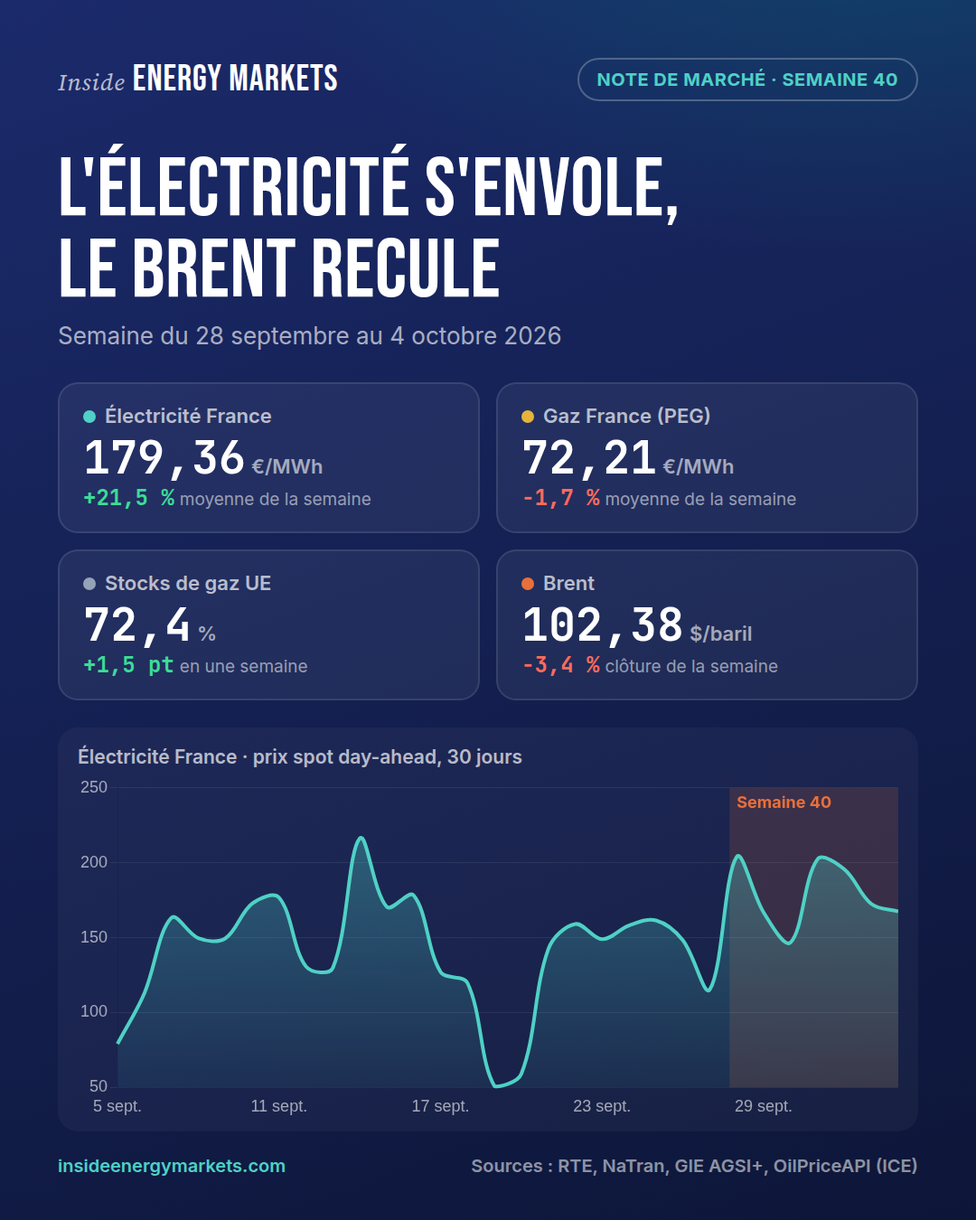
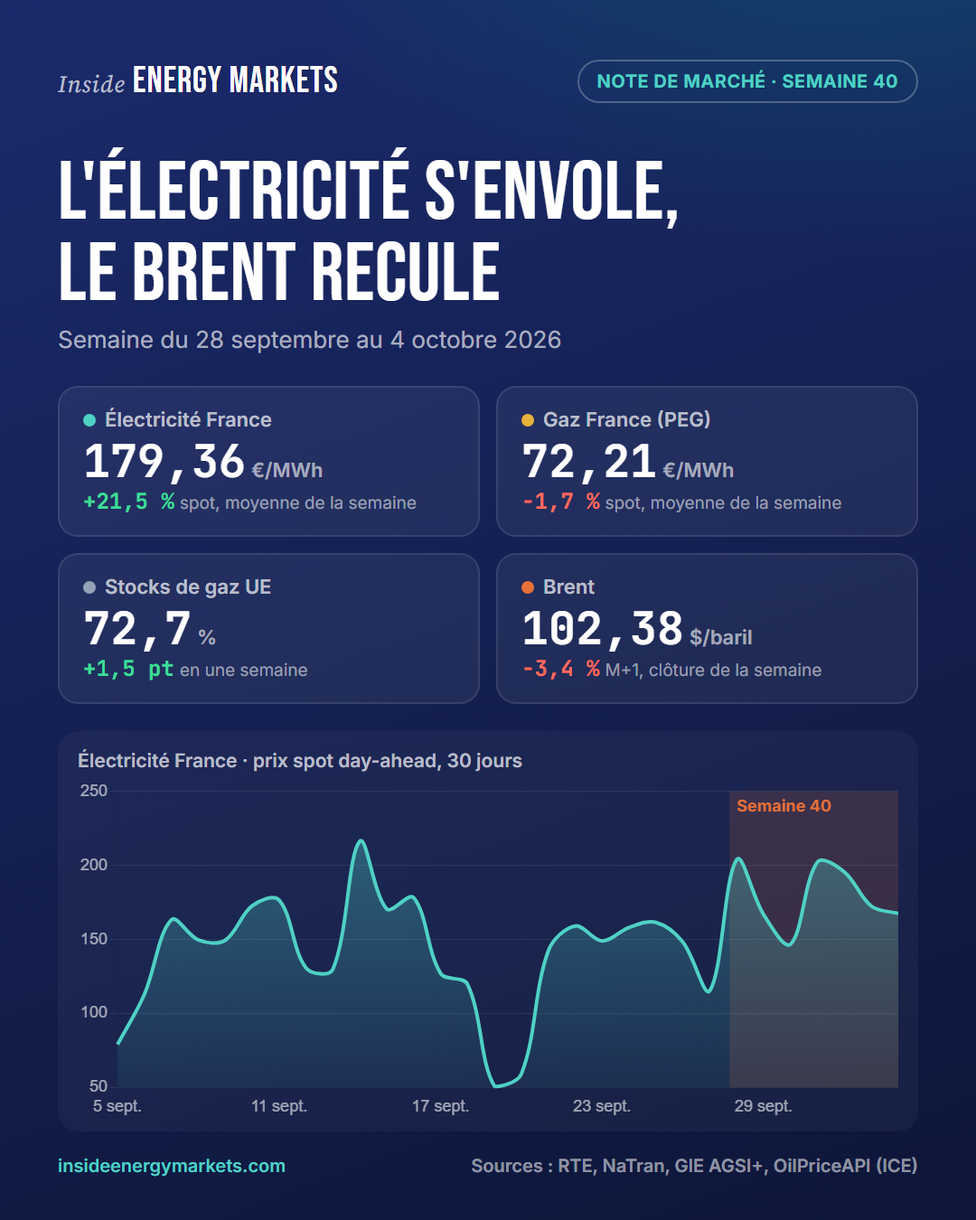
Note de marché : type de prix précisé (spot pour l'électricité et le PEG, M+1 pour le Brent), note S40 régénérée

diff --git a/scripts/generate_note.py b/scripts/generate_note.py
@@ -236,8 +236,8 @@ def make_chart(kind, c, s, lang, week):
         "power": ("Électricité FR" if fr else "French power",
                   "Spot day-ahead, moyenne de chaque jour" if fr else "Day-ahead spot, daily average"),
         "gas": ("Gaz France (PEG)" if fr else "French gas (PEG)",
-                "Prix moyen de chaque journée gazière" if fr else "Average price of each gas day"),
-        "oil": ("Brent", "Contrat à terme ICE, premier mois" if fr else "ICE futures, front month")}[kind]
+                "Spot, prix moyen de chaque journée gazière" if fr else "Spot, average price of each gas day"),
+        "oil": ("Brent", "Contrat à terme ICE M+1 (premier mois)" if fr else "ICE futures M+1 (front month)")}[kind]
     labels, series_out = [d for d, _ in pts], [{"name": title, "color": COLORS[kind], "data": [round(v, 2) for _, v in pts]}]
     if kind == "oil":
         # Spot EIA du Brent (autre produit) : tracé à part, en pointillés, pour le contexte
@@ -246,7 +246,7 @@ def make_chart(kind, c, s, lang, week):
         if spot:
             fut = dict(pts)
             labels = sorted(set(fut) | set(spot))
-            series_out = [{"name": "Brent, contrat à terme ICE" if fr else "Brent, ICE futures", "color": COLORS[kind],
+            series_out = [{"name": "Brent, contrat à terme ICE M+1" if fr else "Brent, ICE futures M+1", "color": COLORS[kind],
                            "data": [round(fut[d], 2) if d in fut else None for d in labels]},
                           {"name": "Brent spot (EIA), pour contexte" if fr else "Brent spot (EIA), for context", "color": COLORS[kind],
                            "dashed": True, "data": [spot.get(d) for d in labels]}]
@@ -264,20 +264,20 @@ def build(s, c, lang, week):
     sp = s.get("spot")
     if sp:
         chg = (sp["avg"] - sp["prev_avg"]) / sp["prev_avg"] * 100 if sp["prev_avg"] else None
-        tiles.append({"key": "power", "label": "Électricité France" if fr else "French power", "sub": "moyenne de la semaine" if fr else "weekly average", "value": num(sp["avg"], lang),
+        tiles.append({"key": "power", "label": "Électricité France" if fr else "French power", "sub": "spot, moyenne de la semaine" if fr else "spot, weekly average", "value": num(sp["avg"], lang),
                       "unit": " €/MWh", "change": pct(chg, lang) if chg is not None else None,
                       "dir": direction(chg) if chg is not None else "flat"})
         if chg is not None:
             movers.append(("l'électricité", "power prices", "Électricité" if fr else "Power", chg))
         b = []
         if fr:
-            b.append(f"Spot France : entre {num(sp['low'][1], lang)} et {num(sp['high'][1], lang)} €/MWh selon les jours, "
+            b.append(f"Électricité France (spot day-ahead) : entre {num(sp['low'][1], lang)} et {num(sp['high'][1], lang)} €/MWh selon les jours, "
                      f"{num(sp['avg'], lang)} €/MWh en moyenne" + (f" ({pct(chg, lang)} sur une semaine)." if chg is not None else "."))
             b.append(f"Journée la plus chère : {day_label(sp['high'][0], lang)} ; la moins chère : {day_label(sp['low'][0], lang)}.")
             if sp["negative_days"]:
                 b.append(f"Prix moyen négatif {sp['negative_days']} jour(s) dans la semaine.")
         else:
-            b.append(f"French spot: between €{num(sp['low'][1], lang)} and €{num(sp['high'][1], lang)}/MWh depending on the day, "
+            b.append(f"French power (day-ahead spot): between €{num(sp['low'][1], lang)} and €{num(sp['high'][1], lang)}/MWh depending on the day, "
                      f"€{num(sp['avg'], lang)}/MWh on average" + (f" ({pct(chg, lang)} week on week)." if chg is not None else "."))
             b.append(f"Most expensive day: {day_label(sp['high'][0], lang)}; cheapest: {day_label(sp['low'][0], lang)}.")
             if sp["negative_days"]:
@@ -293,15 +293,15 @@ def build(s, c, lang, week):
     pg = s.get("peg")
     if pg:
         chg = (pg["avg"] - pg["prev_avg"]) / pg["prev_avg"] * 100 if pg["prev_avg"] else None
-        tiles.append({"key": "gas", "label": "Gaz France (PEG)" if fr else "French gas (PEG)", "sub": "moyenne de la semaine" if fr else "weekly average", "value": num(pg["avg"], lang),
+        tiles.append({"key": "gas", "label": "Gaz France (PEG)" if fr else "French gas (PEG)", "sub": "spot, moyenne de la semaine" if fr else "spot, weekly average", "value": num(pg["avg"], lang),
                       "unit": " €/MWh", "change": pct(chg, lang) if chg is not None else None,
                       "dir": direction(chg) if chg is not None else "flat"})
         if chg is not None:
             movers.append(("le gaz français", "French gas", "PEG", chg))
-        b.append(f"Gaz France (PEG) : {num(pg['avg'], lang)} €/MWh en moyenne"
+        b.append(f"Gaz France (PEG, spot) : {num(pg['avg'], lang)} €/MWh en moyenne"
                  + (f", contre {num(pg['prev_avg'], lang)} la semaine précédente ({pct(chg, lang)})" if chg is not None else "")
                  + f", entre {num(pg['low'][1], lang)} et {num(pg['high'][1], lang)} €/MWh selon les jours." if fr else
-                 f"French gas (PEG): €{num(pg['avg'], lang)}/MWh on average"
+                 f"French gas (PEG, spot): €{num(pg['avg'], lang)}/MWh on average"
                  + (f", against {num(pg['prev_avg'], lang)} the previous week ({pct(chg, lang)})" if chg is not None else "")
                  + f", between €{num(pg['low'][1], lang)} and €{num(pg['high'][1], lang)}/MWh depending on the day.")
     eu, frs = s.get("storage_eu"), s.get("storage_fr")
@@ -325,12 +325,12 @@ def build(s, c, lang, week):
     b = []
     br = s.get("brent")
     if br:
-        tiles.append({"key": "oil", "label": "Brent", "sub": "clôture de la semaine" if fr else "weekly close", "value": num(br["last"], lang), "unit": " $/baril" if fr else " $/bbl",
+        tiles.append({"key": "oil", "label": "Brent", "sub": "M+1, clôture de la semaine" if fr else "M+1, weekly close", "value": num(br["last"], lang), "unit": " $/baril" if fr else " $/bbl",
                       "change": pct(br["change"], lang), "dir": direction(br["change"])})
         movers.append(("le Brent", "Brent", "Brent", br["change"]))
-        b.append(f"Brent (contrat à terme ICE, premier mois) : {num(br['last'], lang)} $ le baril à la clôture de la semaine "
+        b.append(f"Brent (contrat à terme ICE M+1) : {num(br['last'], lang)} $ le baril à la clôture de la semaine "
                  f"({pct(br['change'], lang)} sur une semaine), entre {num(br['low'][1], lang)} et {num(br['high'][1], lang)} $." if fr else
-                 f"Brent (ICE futures, front month): ${num(br['last'], lang)} a barrel at the weekly close "
+                 f"Brent (ICE futures M+1): ${num(br['last'], lang)} a barrel at the weekly close "
                  f"({pct(br['change'], lang)} on the week), between ${num(br['low'][1], lang)} and ${num(br['high'][1], lang)}.")
     extra = []
     if "spread" in s:
@@ -463,10 +463,10 @@ def write_linkedin(front, week, s):
     if front["reading"]:
         lines += [f"👉 {front['reading']}", ""]
     tiles = {t.get("key"): t for t in front["tiles"]}
-    for emoji, label, what in (("⚡", "power", "électricité France, moyenne de la semaine"),
-                               ("🔥", "gas", "gaz France (PEG), moyenne de la semaine"),
+    for emoji, label, what in (("⚡", "power", "électricité France (spot), moyenne de la semaine"),
+                               ("🔥", "gas", "gaz France (PEG spot), moyenne de la semaine"),
                                ("🔥", "storage", "stocks de gaz européens"),
-                               ("🛢", "oil", "Brent, clôture de la semaine")):
+                               ("🛢", "oil", "Brent (M+1), clôture de la semaine")):
         t = tiles.get(label)
         if t:
             chg = f" ({t['change']})" if t.get("change") else ""

diff --git a/_notes/2026-40-fr.md b/_notes/2026-40-fr.md
@@ -12,9 +12,9 @@ period_start: "2026-09-28"
 period_end: "2026-10-04"
 headline: "L'électricité s'envole, le Brent recule"
 intro: "Semaine du 28 septembre au 4 octobre 2026 : ce qu'il faut retenir sur l'électricité, le gaz et le pétrole."
-context: [{"title": "« Le budget 2027 porte déjà la marque des six réacteurs nucléaires EPR2 »", "url": "https://www.lemonde.fr/idees/article/2026/10/04/le-budget-2027-porte-deja-la-marque-des-six-reacteurs-nucleaires-epr2_6788313_3232.html", "source": "Le Monde"}, {"title": "« Une politique juste de réduction des émissions ne consiste pas à demander le même effort à tous, mais à cibler en priorité les mobilités les plus carbonées »", "url": "https://www.lemonde.fr/idees/article/2026/10/04/une-politique-juste-de-reduction-des-emissions-ne-consiste-pas-a-demander-le-meme-effort-a-tous-mais-a-cibler-en-priorite-les-mobilites-les-plus-carbonees_6788111_3232.html", "source": "Le Monde"}, {"title": "Réserves stratégiques de pétrole : 325 millions de barils « libérés » depuis mars, selon l’Agence internationale de l’énergie", "url": "https://www.lemonde.fr/planete/article/2026/10/03/reserves-strategiques-de-petrole-325-millions-de-barils-liberes-depuis-mars_6787795_3244.html", "source": "Le Monde"}, {"title": "Leasing social de pompes à chaleur : « un changement de paradigme »", "url": "https://www.connaissancedesenergies.org/leasing-social-de-pompes-a-chaleur-un-changement-de-paradigme", "source": "Connaissance des Énergies"}]
-tiles: [{"key": "power", "label": "Électricité France", "sub": "moyenne de la semaine", "value": "179,36", "unit": " €/MWh", "change": "+21,5 %", "dir": "up", "color": "#4fd1c5", "spark": [79.08, 113.02, 163.24, 149.69, 149.47, 172.76, 176.71, 130.85, 129.94, 216.33, 170.63, 178.28, 127.12, 119.74, 50.96, 59.17, 142.3, 159.12, 148.95, 158.11, 161.52, 148.2, 115.41, 203.94, 166.81, 146.81, 202.33, 195.57, 172.52, 167.52]}, {"key": "gas", "label": "Gaz France (PEG)", "sub": "moyenne de la semaine", "value": "72,21", "unit": " €/MWh", "change": "−1,7 %", "dir": "down", "color": "#e8b33a", "spark": [77.3, 74.95, 73.75, 75.41, 78.6, 80.18, 80.29, 82.01, 82.13, 84.47, 84.43, 80.21, 78.44, 78.47, 79.21, 80.95, 75.69, 72.86, 73.55, 74.67, 71.99, 72.95, 72.35, 72.92, 69.42, 70.07, 72.26, 72.71, 74.18, 73.92]}, {"key": "storage", "label": "Stocks de gaz UE", "sub": "en une semaine", "value": "72,4", "unit": " %", "change": "+1,5 pt", "dir": "up", "color": "#94a3b8", "spark": [58.07, 58.3, 58.53, 58.82, 59.1, 59.37, 59.63, 59.9, 60.16, 60.44, 60.79, 61.13, 61.37, 61.6, 61.81, 62.04, 62.32, 62.64, 62.99, 63.28, 63.55, 63.81, 64.09, 64.38, 64.74, 65.1, 65.4, 65.62, 65.83, 66.07, 66.35, 66.59, 66.91, 67.14, 67.35, 67.52, 67.66, 67.78, 68.04, 68.3, 68.49, 68.66, 68.84, 69.06, 69.31, 69.62, 69.94, 70.14, 70.25, 70.35, 70.45, 70.62, 70.88, 71.17, 71.33, 71.55, 71.64, 71.98, 72.15, 72.4]}, {"key": "oil", "label": "Brent", "sub": "clôture de la semaine", "value": "102,38", "unit": " $/baril", "change": "−3,4 %", "dir": "down", "color": "#e8703a", "spark": [105.99, 105.92, 102.94, 97.57, 102.44, 102.38]}]
-sections: [{"key": "power", "title": "Électricité", "icon": "fa-bolt", "emoji": "⚡", "bullets": ["Spot France : entre 146,81 et 203,94 €/MWh selon les jours, 179,36 €/MWh en moyenne (+21,5 % sur une semaine).", "Journée la plus chère : lundi 28 ; la moins chère : mercredi 30.", "Production : nucléaire 68 %, renouvelables 24 %, gaz 8 %."], "chart": {"type": "detail", "title": "Électricité FR", "sub": "Spot day-ahead, moyenne de chaque jour", "unit": "€/MWh", "labels": ["2026-08-06", "2026-08-07", "2026-08-08", "2026-08-09", "2026-08-10", "2026-08-11", "2026-08-12", "2026-08-13", "2026-08-14", "2026-08-15", "2026-08-16", "2026-08-17", "2026-08-18", "2026-08-19", "2026-08-20", "2026-08-21", "2026-08-22", "2026-08-23", "2026-08-24", "2026-08-25", "2026-08-26", "2026-08-27", "2026-08-28", "2026-08-29", "2026-08-30", "2026-08-31", "2026-09-01", "2026-09-02", "2026-09-03", "2026-09-04", "2026-09-05", "2026-09-06", "2026-09-07", "2026-09-08", "2026-09-09", "2026-09-10", "2026-09-11", "2026-09-12", "2026-09-13", "2026-09-14", "2026-09-15", "2026-09-16", "2026-09-17", "2026-09-18", "2026-09-19", "2026-09-20", "2026-09-21", "2026-09-22", "2026-09-23", "2026-09-24", "2026-09-25", "2026-09-26", "2026-09-27", "2026-09-28", "2026-09-29", "2026-09-30", "2026-10-01", "2026-10-02", "2026-10-03", "2026-10-04"], "series": [{"name": "Électricité FR", "color": "#00817d", "data": [97.28, 106.26, 93.84, 90.93, 125.99, 115.13, 141.2, 154.68, 145.74, 122.27, 138.15, 177.35, 162.21, 165.78, 143.12, 152.8, 100.62, 76.47, 105.45, 153.92, 159.84, 156.6, 134.28, 65.33, 72.61, 81.84, 148.72, 163.6, 138.34, 110.12, 79.08, 113.02, 163.24, 149.69, 149.47, 172.76, 176.71, 130.85, 129.94, 216.33, 170.63, 178.28, 127.12, 119.74, 50.96, 59.17, 142.3, 159.12, 148.95, 158.11, 161.52, 148.2, 115.41, 203.94, 166.81, 146.81, 202.33, 195.57, 172.52, 167.52]}], "band": ["2026-09-28", "2026-10-04"], "band_label": "Semaine 40", "stats": [{"label": "Dernier", "value": "167,52", "unit": "€/MWh", "sub": "dimanche 4"}, {"label": "Moyenne vs sem. préc.", "value": "+21,5 %", "unit": "", "sub": "179,36 contre 147,66 €/MWh", "dir": "up"}, {"label": "Plus bas", "value": "146,81", "unit": "€/MWh", "sub": "mercredi 30"}, {"label": "Plus haut", "value": "203,94", "unit": "€/MWh", "sub": "lundi 28"}, {"label": "Moyenne", "value": "179,36", "unit": "€/MWh", "sub": "semaine 40"}]}, "source": "RTE, Energy-Charts / SMARD"}, {"key": "gas", "title": "Gaz", "icon": "fa-fire-flame-simple", "emoji": "🔥", "bullets": ["Gaz France (PEG) : 72,21 €/MWh en moyenne, contre 73,44 la semaine précédente (−1,7 %), entre 69,42 et 74,18 €/MWh selon les jours.", "Stocks européens : 72,4 % de remplissage (+1,5 point en une semaine), 10,2 points en dessous de l'an dernier.", "France : 84,7 % de remplissage."], "chart": {"type": "detail", "title": "Gaz France (PEG)", "sub": "Prix moyen de chaque journée gazière", "unit": "€/MWh", "labels": ["2026-08-06", "2026-08-07", "2026-08-08", "2026-08-09", "2026-08-10", "2026-08-11", "2026-08-12", "2026-08-13", "2026-08-14", "2026-08-15", "2026-08-16", "2026-08-17", "2026-08-18", "2026-08-19", "2026-08-20", "2026-08-21", "2026-08-22", "2026-08-23", "2026-08-24", "2026-08-25", "2026-08-26", "2026-08-27", "2026-08-28", "2026-08-29", "2026-08-30", "2026-08-31", "2026-09-01", "2026-09-02", "2026-09-03", "2026-09-04", "2026-09-05", "2026-09-06", "2026-09-07", "2026-09-08", "2026-09-09", "2026-09-10", "2026-09-11", "2026-09-12", "2026-09-13", "2026-09-14", "2026-09-15", "2026-09-16", "2026-09-17", "2026-09-18", "2026-09-19", "2026-09-20", "2026-09-21", "2026-09-22", "2026-09-23", "2026-09-24", "2026-09-25", "2026-09-26", "2026-09-27", "2026-09-28", "2026-09-29", "2026-09-30", "2026-10-01", "2026-10-02", "2026-10-03", "2026-10-04"], "series": [{"name": "Gaz France (PEG)", "color": "#e8b33a", "data": [55.38, 55.94, 55.0, 56.01, 59.59, 60.13, 60.59, 60.43, 61.5, 62.94, 64.0, 62.67, 63.56, 63.81, 65.28, 66.25, 66.34, 66.02, 67.8, 66.53, 65.27, 67.43, 67.76, 65.36, 66.32, 69.29, 71.71, 73.61, 71.16, 70.7, 77.3, 74.95, 73.75, 75.41, 78.6, 80.18, 80.29, 82.01, 82.13, 84.47, 84.43, 80.21, 78.44, 78.47, 79.21, 80.95, 75.69, 72.86, 73.55, 74.67, 71.99, 72.95, 72.35, 72.92, 69.42, 70.07, 72.26, 72.71, 74.18, 73.92]}], "band": ["2026-09-28", "2026-10-04"], "band_label": "Semaine 40", "stats": [{"label": "Dernier", "value": "73,92", "unit": "€/MWh", "sub": "dimanche 4"}, {"label": "Moyenne vs sem. préc.", "value": "−1,7 %", "unit": "", "sub": "72,21 contre 73,44 €/MWh", "dir": "down"}, {"label": "Plus bas", "value": "69,42", "unit": "€/MWh", "sub": "mardi 29"}, {"label": "Plus haut", "value": "74,18", "unit": "€/MWh", "sub": "samedi 3"}, {"label": "Moyenne", "value": "72,21", "unit": "€/MWh", "sub": "semaine 40"}]}, "source": "NaTran (Smart), GIE AGSI+"}, {"key": "oil", "title": "Pétrole et carburants", "icon": "fa-oil-well", "emoji": "🛢", "bullets": ["Brent (contrat à terme ICE, premier mois) : 102,38 $ le baril à la clôture de la semaine (−3,4 % sur une semaine), entre 97,57 et 105,92 $.", "Écart Brent-WTI 11,52 $ par baril ; stocks de brut américains +0,9 million de barils, à 427,3 millions.", "À la pompe : gazole 2,373 €/L (−0,7 centime sur la semaine), SP95-E10 2,168 €/L."], "chart": {"type": "detail", "title": "Brent", "sub": "Contrat à terme ICE, premier mois", "unit": "$/b", "labels": ["2026-08-06", "2026-08-07", "2026-08-10", "2026-08-11", "2026-08-12", "2026-08-13", "2026-08-14", "2026-08-17", "2026-08-18", "2026-08-19", "2026-08-20", "2026-08-21", "2026-08-24", "2026-08-25", "2026-08-26", "2026-08-27", "2026-08-28", "2026-09-01", "2026-09-02", "2026-09-03", "2026-09-04", "2026-09-07", "2026-09-08", "2026-09-09", "2026-09-10", "2026-09-11", "2026-09-14", "2026-09-15", "2026-09-16", "2026-09-17", "2026-09-18", "2026-09-21", "2026-09-22", "2026-09-23", "2026-09-24", "2026-09-25", "2026-09-28", "2026-09-29", "2026-09-30", "2026-10-01", "2026-10-02"], "series": [{"name": "Brent, contrat à terme ICE", "color": "#e8703a", "data": [null, null, null, null, null, null, null, null, null, null, null, null, null, null, null, null, null, null, null, null, null, null, null, null, null, null, null, null, null, null, null, null, null, null, null, 105.99, 105.92, 102.94, 97.57, 102.44, 102.38]}, {"name": "Brent spot (EIA), pour contexte", "color": "#e8703a", "dashed": true, "data": [89.65, 87.62, 92.74, 93.26, 92.52, 92.03, 92.02, 92.43, 95.29, 92.37, 94.0, 96.92, 92.71, 88.24, 87.77, 90.18, 89.75, 96.02, 97.59, 100.52, 102.24, 104.47, 106.12, 109.51, 120.98, 118.06, 121.25, 130.8, 127.84, 121.18, 119.66, 116.15, 114.89, 117.45, 120.92, 116.01, 119.97, 113.96, null, null, null]}], "band": ["2026-09-28", "2026-10-04"], "band_label": "Semaine 40", "stats": [{"label": "Dernier", "value": "102,38", "unit": "$/b", "sub": "vendredi 2"}, {"label": "Sur la semaine", "value": "−3,4 %", "unit": "", "sub": "−3,61 $/b", "dir": "down"}, {"label": "Plus bas", "value": "97,57", "unit": "$/b", "sub": "mercredi 30"}, {"label": "Plus haut", "value": "105,92", "unit": "$/b", "sub": "lundi 28"}, {"label": "Moyenne", "value": "102,25", "unit": "$/b", "sub": "semaine 40"}]}, "source": "OilPriceAPI (ICE), EIA, prix des carburants (data.economie.gouv.fr)"}]
+context: [{"title": "Leasing social de pompes à chaleur : « un changement de paradigme »", "url": "https://www.connaissancedesenergies.org/leasing-social-de-pompes-a-chaleur-un-changement-de-paradigme", "source": "Connaissance des Énergies"}]
+tiles: [{"key": "power", "label": "Électricité France", "sub": "spot, moyenne de la semaine", "value": "179,36", "unit": " €/MWh", "change": "+21,5 %", "dir": "up", "color": "#4fd1c5", "spark": [79.08, 113.02, 163.24, 149.69, 149.47, 172.76, 176.71, 130.85, 129.94, 216.33, 170.63, 178.28, 127.12, 119.74, 50.96, 59.17, 142.3, 159.12, 148.95, 158.11, 161.52, 148.2, 115.41, 203.94, 166.81, 146.81, 202.33, 195.57, 172.52, 167.52]}, {"key": "gas", "label": "Gaz France (PEG)", "sub": "spot, moyenne de la semaine", "value": "72,21", "unit": " €/MWh", "change": "−1,7 %", "dir": "down", "color": "#e8b33a", "spark": [77.3, 74.95, 73.75, 75.41, 78.6, 80.18, 80.29, 82.01, 82.13, 84.47, 84.43, 80.21, 78.44, 78.47, 79.21, 80.95, 75.69, 72.86, 73.55, 74.67, 71.99, 72.95, 72.35, 72.92, 69.42, 70.07, 72.26, 72.71, 74.18, 73.92]}, {"key": "storage", "label": "Stocks de gaz UE", "sub": "en une semaine", "value": "72,7", "unit": " %", "change": "+1,5 pt", "dir": "up", "color": "#94a3b8", "spark": [58.3, 58.53, 58.82, 59.1, 59.37, 59.63, 59.9, 60.16, 60.44, 60.79, 61.13, 61.37, 61.6, 61.81, 62.04, 62.32, 62.64, 62.99, 63.28, 63.55, 63.81, 64.09, 64.38, 64.74, 65.1, 65.4, 65.62, 65.83, 66.07, 66.35, 66.59, 66.91, 67.14, 67.35, 67.52, 67.66, 67.78, 68.04, 68.3, 68.49, 68.66, 68.84, 69.06, 69.31, 69.62, 69.94, 70.14, 70.25, 70.35, 70.45, 70.62, 70.88, 71.17, 71.33, 71.55, 71.64, 71.98, 72.15, 72.4, 72.67]}, {"key": "oil", "label": "Brent", "sub": "M+1, clôture de la semaine", "value": "102,38", "unit": " $/baril", "change": "−3,4 %", "dir": "down", "color": "#e8703a", "spark": [105.99, 105.92, 102.94, 97.57, 102.44, 102.38]}]
+sections: [{"key": "power", "title": "Électricité", "icon": "fa-bolt", "emoji": "⚡", "bullets": ["Électricité France (spot day-ahead) : entre 146,81 et 203,94 €/MWh selon les jours, 179,36 €/MWh en moyenne (+21,5 % sur une semaine).", "Journée la plus chère : lundi 28 ; la moins chère : mercredi 30.", "Production : nucléaire 68 %, renouvelables 24 %, gaz 8 %."], "chart": {"type": "detail", "title": "Électricité FR", "sub": "Spot day-ahead, moyenne de chaque jour", "unit": "€/MWh", "labels": ["2026-08-07", "2026-08-08", "2026-08-09", "2026-08-10", "2026-08-11", "2026-08-12", "2026-08-13", "2026-08-14", "2026-08-15", "2026-08-16", "2026-08-17", "2026-08-18", "2026-08-19", "2026-08-20", "2026-08-21", "2026-08-22", "2026-08-23", "2026-08-24", "2026-08-25", "2026-08-26", "2026-08-27", "2026-08-28", "2026-08-29", "2026-08-30", "2026-08-31", "2026-09-01", "2026-09-02", "2026-09-03", "2026-09-04", "2026-09-05", "2026-09-06", "2026-09-07", "2026-09-08", "2026-09-09", "2026-09-10", "2026-09-11", "2026-09-12", "2026-09-13", "2026-09-14", "2026-09-15", "2026-09-16", "2026-09-17", "2026-09-18", "2026-09-19", "2026-09-20", "2026-09-21", "2026-09-22", "2026-09-23", "2026-09-24", "2026-09-25", "2026-09-26", "2026-09-27", "2026-09-28", "2026-09-29", "2026-09-30", "2026-10-01", "2026-10-02", "2026-10-03", "2026-10-04"], "series": [{"name": "Électricité FR", "color": "#00817d", "data": [106.26, 93.84, 90.93, 125.99, 115.13, 141.2, 154.68, 145.74, 122.27, 138.15, 177.35, 162.21, 165.78, 143.12, 152.8, 100.62, 76.47, 105.45, 153.92, 159.84, 156.6, 134.28, 65.33, 72.61, 81.84, 148.72, 163.6, 138.34, 110.12, 79.08, 113.02, 163.24, 149.69, 149.47, 172.76, 176.71, 130.85, 129.94, 216.33, 170.63, 178.28, 127.12, 119.74, 50.96, 59.17, 142.3, 159.12, 148.95, 158.11, 161.52, 148.2, 115.41, 203.94, 166.81, 146.81, 202.33, 195.57, 172.52, 167.52]}], "band": ["2026-09-28", "2026-10-04"], "band_label": "Semaine 40", "stats": [{"label": "Dernier", "value": "167,52", "unit": "€/MWh", "sub": "dimanche 4"}, {"label": "Moyenne vs sem. préc.", "value": "+21,5 %", "unit": "", "sub": "179,36 contre 147,66 €/MWh", "dir": "up"}, {"label": "Plus bas", "value": "146,81", "unit": "€/MWh", "sub": "mercredi 30"}, {"label": "Plus haut", "value": "203,94", "unit": "€/MWh", "sub": "lundi 28"}, {"label": "Moyenne", "value": "179,36", "unit": "€/MWh", "sub": "semaine 40"}]}, "source": "RTE, Energy-Charts / SMARD"}, {"key": "gas", "title": "Gaz", "icon": "fa-fire-flame-simple", "emoji": "🔥", "bullets": ["Gaz France (PEG, spot) : 72,21 €/MWh en moyenne, contre 73,44 la semaine précédente (−1,7 %), entre 69,42 et 74,18 €/MWh selon les jours.", "Stocks européens : 72,7 % de remplissage (+1,5 point en une semaine), 10,1 points en dessous de l'an dernier.", "France : 85,2 % de remplissage."], "chart": {"type": "detail", "title": "Gaz France (PEG)", "sub": "Spot, prix moyen de chaque journée gazière", "unit": "€/MWh", "labels": ["2026-08-07", "2026-08-08", "2026-08-09", "2026-08-10", "2026-08-11", "2026-08-12", "2026-08-13", "2026-08-14", "2026-08-15", "2026-08-16", "2026-08-17", "2026-08-18", "2026-08-19", "2026-08-20", "2026-08-21", "2026-08-22", "2026-08-23", "2026-08-24", "2026-08-25", "2026-08-26", "2026-08-27", "2026-08-28", "2026-08-29", "2026-08-30", "2026-08-31", "2026-09-01", "2026-09-02", "2026-09-03", "2026-09-04", "2026-09-05", "2026-09-06", "2026-09-07", "2026-09-08", "2026-09-09", "2026-09-10", "2026-09-11", "2026-09-12", "2026-09-13", "2026-09-14", "2026-09-15", "2026-09-16", "2026-09-17", "2026-09-18", "2026-09-19", "2026-09-20", "2026-09-21", "2026-09-22", "2026-09-23", "2026-09-24", "2026-09-25", "2026-09-26", "2026-09-27", "2026-09-28", "2026-09-29", "2026-09-30", "2026-10-01", "2026-10-02", "2026-10-03", "2026-10-04"], "series": [{"name": "Gaz France (PEG)", "color": "#e8b33a", "data": [55.94, 55.0, 56.01, 59.59, 60.13, 60.59, 60.43, 61.5, 62.94, 64.0, 62.67, 63.56, 63.81, 65.28, 66.25, 66.34, 66.02, 67.8, 66.53, 65.27, 67.43, 67.76, 65.36, 66.32, 69.29, 71.71, 73.61, 71.16, 70.7, 77.3, 74.95, 73.75, 75.41, 78.6, 80.18, 80.29, 82.01, 82.13, 84.47, 84.43, 80.21, 78.44, 78.47, 79.21, 80.95, 75.69, 72.86, 73.55, 74.67, 71.99, 72.95, 72.35, 72.92, 69.42, 70.07, 72.26, 72.71, 74.18, 73.92]}], "band": ["2026-09-28", "2026-10-04"], "band_label": "Semaine 40", "stats": [{"label": "Dernier", "value": "73,92", "unit": "€/MWh", "sub": "dimanche 4"}, {"label": "Moyenne vs sem. préc.", "value": "−1,7 %", "unit": "", "sub": "72,21 contre 73,44 €/MWh", "dir": "down"}, {"label": "Plus bas", "value": "69,42", "unit": "€/MWh", "sub": "mardi 29"}, {"label": "Plus haut", "value": "74,18", "unit": "€/MWh", "sub": "samedi 3"}, {"label": "Moyenne", "value": "72,21", "unit": "€/MWh", "sub": "semaine 40"}]}, "source": "NaTran (Smart), GIE AGSI+"}, {"key": "oil", "title": "Pétrole et carburants", "icon": "fa-oil-well", "emoji": "🛢", "bullets": ["Brent (contrat à terme ICE M+1) : 102,38 $ le baril à la clôture de la semaine (−3,4 % sur une semaine), entre 97,57 et 105,92 $.", "Stocks de brut américains +0,9 million de barils, à 427,3 millions.", "À la pompe : gazole 2,373 €/L (−0,7 centime sur la semaine), SP95-E10 2,168 €/L."], "chart": {"type": "detail", "title": "Brent", "sub": "Contrat à terme ICE M+1 (premier mois)", "unit": "$/b", "labels": ["2026-08-06", "2026-08-07", "2026-08-10", "2026-08-11", "2026-08-12", "2026-08-13", "2026-08-14", "2026-08-17", "2026-08-18", "2026-08-19", "2026-08-20", "2026-08-21", "2026-08-24", "2026-08-25", "2026-08-26", "2026-08-27", "2026-08-28", "2026-09-01", "2026-09-02", "2026-09-03", "2026-09-04", "2026-09-07", "2026-09-08", "2026-09-09", "2026-09-10", "2026-09-11", "2026-09-14", "2026-09-15", "2026-09-16", "2026-09-17", "2026-09-18", "2026-09-21", "2026-09-22", "2026-09-23", "2026-09-24", "2026-09-25", "2026-09-28", "2026-09-29", "2026-09-30", "2026-10-01", "2026-10-02"], "series": [{"name": "Brent, contrat à terme ICE M+1", "color": "#e8703a", "data": [null, null, null, null, null, null, null, null, null, null, null, null, null, null, null, null, null, null, null, null, null, null, null, null, null, null, null, null, null, null, null, null, null, null, null, 105.99, 105.92, 102.94, 97.57, 102.44, 102.38]}, {"name": "Brent spot (EIA), pour contexte", "color": "#e8703a", "dashed": true, "data": [89.65, 87.62, 92.74, 93.26, 92.52, 92.03, 92.02, 92.43, 95.29, 92.37, 94.0, 96.92, 92.71, 88.24, 87.77, 90.18, 89.75, 96.02, 97.59, 100.52, 102.24, 104.47, 106.12, 109.51, 120.98, 118.06, 121.25, 130.8, 127.84, 121.18, 119.66, 116.15, 114.89, 117.45, 120.92, 116.01, 119.97, 113.96, null, null, null]}], "band": ["2026-09-28", "2026-10-04"], "band_label": "Semaine 40", "stats": [{"label": "Dernier", "value": "102,38", "unit": "$/b", "sub": "vendredi 2"}, {"label": "Sur la semaine", "value": "−3,4 %", "unit": "", "sub": "−3,61 $/b", "dir": "down"}, {"label": "Plus bas", "value": "97,57", "unit": "$/b", "sub": "mercredi 30"}, {"label": "Plus haut", "value": "105,92", "unit": "$/b", "sub": "lundi 28"}, {"label": "Moyenne", "value": "102,25", "unit": "$/b", "sub": "semaine 40"}]}, "source": "OilPriceAPI (ICE), EIA, prix des carburants (data.economie.gouv.fr)"}]
 reading: "Semaine marquée par la hausse de l'électricité (+21,5 %) et le repli du Brent (−3,4 %). Les stocks de gaz européens abordent l'hiver nettement en dessous de l'an dernier, ce qui rend le marché sensible au froid."
 ---
 

diff --git a/_notes/2026-40-en.md b/_notes/2026-40-en.md
@@ -12,9 +12,9 @@ period_start: "2026-09-28"
 period_end: "2026-10-04"
 headline: "Power prices soar, Brent slips"
 intro: "Week of 28 September to 4 October 2026: what to remember on electricity, gas and oil."
-context: [{"title": "Soaring diesel prices take their toll on US farmers in midwest corn belt", "url": "https://www.theguardian.com/us-news/2026/oct/03/diesel-prices-midwest-farmers", "source": "The Guardian"}, {"title": "G7 to release millions of barrels of oil and diesel after Trump threat", "url": "https://www.bbc.co.uk/news/articles/ck87zg8jnwngo?at_medium=RSS&at_campaign=rss", "source": "BBC"}, {"title": "Watch: Why has UK diesel price hit an all time high?", "url": "https://www.bbc.co.uk/news/videos/c6m2d3mpm7r8o?at_medium=RSS&at_campaign=rss", "source": "BBC"}, {"title": "UK diesel prices top £2 a litre for first time, RAC says", "url": "https://www.bbc.co.uk/news/articles/crn8e86y5n0zo?at_medium=RSS&at_campaign=rss", "source": "BBC"}]
-tiles: [{"key": "power", "label": "French power", "sub": "weekly average", "value": "179.36", "unit": " €/MWh", "change": "+21.5%", "dir": "up", "color": "#4fd1c5", "spark": [79.08, 113.02, 163.24, 149.69, 149.47, 172.76, 176.71, 130.85, 129.94, 216.33, 170.63, 178.28, 127.12, 119.74, 50.96, 59.17, 142.3, 159.12, 148.95, 158.11, 161.52, 148.2, 115.41, 203.94, 166.81, 146.81, 202.33, 195.57, 172.52, 167.52]}, {"key": "gas", "label": "French gas (PEG)", "sub": "weekly average", "value": "72.21", "unit": " €/MWh", "change": "−1.7%", "dir": "down", "color": "#e8b33a", "spark": [77.3, 74.95, 73.75, 75.41, 78.6, 80.18, 80.29, 82.01, 82.13, 84.47, 84.43, 80.21, 78.44, 78.47, 79.21, 80.95, 75.69, 72.86, 73.55, 74.67, 71.99, 72.95, 72.35, 72.92, 69.42, 70.07, 72.26, 72.71, 74.18, 73.92]}, {"key": "storage", "label": "EU gas storage", "sub": "week on week", "value": "72.4", "unit": " %", "change": "+1.5 pt", "dir": "up", "color": "#94a3b8", "spark": [58.07, 58.3, 58.53, 58.82, 59.1, 59.37, 59.63, 59.9, 60.16, 60.44, 60.79, 61.13, 61.37, 61.6, 61.81, 62.04, 62.32, 62.64, 62.99, 63.28, 63.55, 63.81, 64.09, 64.38, 64.74, 65.1, 65.4, 65.62, 65.83, 66.07, 66.35, 66.59, 66.91, 67.14, 67.35, 67.52, 67.66, 67.78, 68.04, 68.3, 68.49, 68.66, 68.84, 69.06, 69.31, 69.62, 69.94, 70.14, 70.25, 70.35, 70.45, 70.62, 70.88, 71.17, 71.33, 71.55, 71.64, 71.98, 72.15, 72.4]}, {"key": "oil", "label": "Brent", "sub": "weekly close", "value": "102.38", "unit": " $/bbl", "change": "−3.4%", "dir": "down", "color": "#e8703a", "spark": [105.99, 105.92, 102.94, 97.57, 102.44, 102.38]}]
-sections: [{"key": "power", "title": "Electricity", "icon": "fa-bolt", "emoji": "⚡", "bullets": ["French spot: between €146.81 and €203.94/MWh depending on the day, €179.36/MWh on average (+21.5% week on week).", "Most expensive day: Monday 28; cheapest: Wednesday 30.", "Generation: nuclear 68%, renewables 24%, gas 8%."], "chart": {"type": "detail", "title": "French power", "sub": "Day-ahead spot, daily average", "unit": "€/MWh", "labels": ["2026-08-06", "2026-08-07", "2026-08-08", "2026-08-09", "2026-08-10", "2026-08-11", "2026-08-12", "2026-08-13", "2026-08-14", "2026-08-15", "2026-08-16", "2026-08-17", "2026-08-18", "2026-08-19", "2026-08-20", "2026-08-21", "2026-08-22", "2026-08-23", "2026-08-24", "2026-08-25", "2026-08-26", "2026-08-27", "2026-08-28", "2026-08-29", "2026-08-30", "2026-08-31", "2026-09-01", "2026-09-02", "2026-09-03", "2026-09-04", "2026-09-05", "2026-09-06", "2026-09-07", "2026-09-08", "2026-09-09", "2026-09-10", "2026-09-11", "2026-09-12", "2026-09-13", "2026-09-14", "2026-09-15", "2026-09-16", "2026-09-17", "2026-09-18", "2026-09-19", "2026-09-20", "2026-09-21", "2026-09-22", "2026-09-23", "2026-09-24", "2026-09-25", "2026-09-26", "2026-09-27", "2026-09-28", "2026-09-29", "2026-09-30", "2026-10-01", "2026-10-02", "2026-10-03", "2026-10-04"], "series": [{"name": "French power", "color": "#00817d", "data": [97.28, 106.26, 93.84, 90.93, 125.99, 115.13, 141.2, 154.68, 145.74, 122.27, 138.15, 177.35, 162.21, 165.78, 143.12, 152.8, 100.62, 76.47, 105.45, 153.92, 159.84, 156.6, 134.28, 65.33, 72.61, 81.84, 148.72, 163.6, 138.34, 110.12, 79.08, 113.02, 163.24, 149.69, 149.47, 172.76, 176.71, 130.85, 129.94, 216.33, 170.63, 178.28, 127.12, 119.74, 50.96, 59.17, 142.3, 159.12, 148.95, 158.11, 161.52, 148.2, 115.41, 203.94, 166.81, 146.81, 202.33, 195.57, 172.52, 167.52]}], "band": ["2026-09-28", "2026-10-04"], "band_label": "Week 40", "stats": [{"label": "Latest", "value": "167.52", "unit": "€/MWh", "sub": "Sunday 4"}, {"label": "Average vs prev. week", "value": "+21.5%", "unit": "", "sub": "179.36 vs 147.66 €/MWh", "dir": "up"}, {"label": "Low", "value": "146.81", "unit": "€/MWh", "sub": "Wednesday 30"}, {"label": "High", "value": "203.94", "unit": "€/MWh", "sub": "Monday 28"}, {"label": "Average", "value": "179.36", "unit": "€/MWh", "sub": "week 40"}]}, "source": "RTE, Energy-Charts / SMARD"}, {"key": "gas", "title": "Gas", "icon": "fa-fire-flame-simple", "emoji": "🔥", "bullets": ["French gas (PEG): €72.21/MWh on average, against 73.44 the previous week (−1.7%), between €69.42 and €74.18/MWh depending on the day.", "European storage: 72.4% full (+1.5 pt in a week), 10.2 pts below last year.", "France: 84.7% full."], "chart": {"type": "detail", "title": "French gas (PEG)", "sub": "Average price of each gas day", "unit": "€/MWh", "labels": ["2026-08-06", "2026-08-07", "2026-08-08", "2026-08-09", "2026-08-10", "2026-08-11", "2026-08-12", "2026-08-13", "2026-08-14", "2026-08-15", "2026-08-16", "2026-08-17", "2026-08-18", "2026-08-19", "2026-08-20", "2026-08-21", "2026-08-22", "2026-08-23", "2026-08-24", "2026-08-25", "2026-08-26", "2026-08-27", "2026-08-28", "2026-08-29", "2026-08-30", "2026-08-31", "2026-09-01", "2026-09-02", "2026-09-03", "2026-09-04", "2026-09-05", "2026-09-06", "2026-09-07", "2026-09-08", "2026-09-09", "2026-09-10", "2026-09-11", "2026-09-12", "2026-09-13", "2026-09-14", "2026-09-15", "2026-09-16", "2026-09-17", "2026-09-18", "2026-09-19", "2026-09-20", "2026-09-21", "2026-09-22", "2026-09-23", "2026-09-24", "2026-09-25", "2026-09-26", "2026-09-27", "2026-09-28", "2026-09-29", "2026-09-30", "2026-10-01", "2026-10-02", "2026-10-03", "2026-10-04"], "series": [{"name": "French gas (PEG)", "color": "#e8b33a", "data": [55.38, 55.94, 55.0, 56.01, 59.59, 60.13, 60.59, 60.43, 61.5, 62.94, 64.0, 62.67, 63.56, 63.81, 65.28, 66.25, 66.34, 66.02, 67.8, 66.53, 65.27, 67.43, 67.76, 65.36, 66.32, 69.29, 71.71, 73.61, 71.16, 70.7, 77.3, 74.95, 73.75, 75.41, 78.6, 80.18, 80.29, 82.01, 82.13, 84.47, 84.43, 80.21, 78.44, 78.47, 79.21, 80.95, 75.69, 72.86, 73.55, 74.67, 71.99, 72.95, 72.35, 72.92, 69.42, 70.07, 72.26, 72.71, 74.18, 73.92]}], "band": ["2026-09-28", "2026-10-04"], "band_label": "Week 40", "stats": [{"label": "Latest", "value": "73.92", "unit": "€/MWh", "sub": "Sunday 4"}, {"label": "Average vs prev. week", "value": "−1.7%", "unit": "", "sub": "72.21 vs 73.44 €/MWh", "dir": "down"}, {"label": "Low", "value": "69.42", "unit": "€/MWh", "sub": "Tuesday 29"}, {"label": "High", "value": "74.18", "unit": "€/MWh", "sub": "Saturday 3"}, {"label": "Average", "value": "72.21", "unit": "€/MWh", "sub": "week 40"}]}, "source": "NaTran (Smart), GIE AGSI+"}, {"key": "oil", "title": "Oil and fuels", "icon": "fa-oil-well", "emoji": "🛢", "bullets": ["Brent (ICE futures, front month): $102.38 a barrel at the weekly close (−3.4% on the week), between $97.57 and $105.92.", "Brent-WTI spread $11.52 a barrel ; US crude inventories +0.9 million barrels, to 427.3 million.", "At the pump: diesel €2.373/L (−0.7 cents on the week), SP95-E10 €2.168/L."], "chart": {"type": "detail", "title": "Brent", "sub": "ICE futures, front month", "unit": "$/b", "labels": ["2026-08-06", "2026-08-07", "2026-08-10", "2026-08-11", "2026-08-12", "2026-08-13", "2026-08-14", "2026-08-17", "2026-08-18", "2026-08-19", "2026-08-20", "2026-08-21", "2026-08-24", "2026-08-25", "2026-08-26", "2026-08-27", "2026-08-28", "2026-09-01", "2026-09-02", "2026-09-03", "2026-09-04", "2026-09-07", "2026-09-08", "2026-09-09", "2026-09-10", "2026-09-11", "2026-09-14", "2026-09-15", "2026-09-16", "2026-09-17", "2026-09-18", "2026-09-21", "2026-09-22", "2026-09-23", "2026-09-24", "2026-09-25", "2026-09-28", "2026-09-29", "2026-09-30", "2026-10-01", "2026-10-02"], "series": [{"name": "Brent, ICE futures", "color": "#e8703a", "data": [null, null, null, null, null, null, null, null, null, null, null, null, null, null, null, null, null, null, null, null, null, null, null, null, null, null, null, null, null, null, null, null, null, null, null, 105.99, 105.92, 102.94, 97.57, 102.44, 102.38]}, {"name": "Brent spot (EIA), for context", "color": "#e8703a", "dashed": true, "data": [89.65, 87.62, 92.74, 93.26, 92.52, 92.03, 92.02, 92.43, 95.29, 92.37, 94.0, 96.92, 92.71, 88.24, 87.77, 90.18, 89.75, 96.02, 97.59, 100.52, 102.24, 104.47, 106.12, 109.51, 120.98, 118.06, 121.25, 130.8, 127.84, 121.18, 119.66, 116.15, 114.89, 117.45, 120.92, 116.01, 119.97, 113.96, null, null, null]}], "band": ["2026-09-28", "2026-10-04"], "band_label": "Week 40", "stats": [{"label": "Latest", "value": "102.38", "unit": "$/b", "sub": "Friday 2"}, {"label": "On the week", "value": "−3.4%", "unit": "", "sub": "−3.61 $/b", "dir": "down"}, {"label": "Low", "value": "97.57", "unit": "$/b", "sub": "Wednesday 30"}, {"label": "High", "value": "105.92", "unit": "$/b", "sub": "Monday 28"}, {"label": "Average", "value": "102.25", "unit": "$/b", "sub": "week 40"}]}, "source": "OilPriceAPI (ICE), EIA, French fuel prices (data.economie.gouv.fr)"}]
+context: [{"title": "Soaring diesel prices take their toll on US farmers in midwest corn belt", "url": "https://www.theguardian.com/us-news/2026/oct/03/diesel-prices-midwest-farmers", "source": "The Guardian"}, {"title": "G7 to release millions of barrels of oil and diesel after Trump threat", "url": "https://www.bbc.co.uk/news/articles/ck87zg8jnwngo?at_medium=RSS&at_campaign=rss", "source": "BBC"}, {"title": "Watch: Why has UK diesel price hit an all time high?", "url": "https://www.bbc.co.uk/news/videos/c6m2d3mpm7r8o?at_medium=RSS&at_campaign=rss", "source": "BBC"}, {"title": "U.S. natural gas production reached a record high in July 2026", "url": "https://www.eia.gov/todayinenergy/detail.php?id=68225", "source": "EIA"}]
+tiles: [{"key": "power", "label": "French power", "sub": "spot, weekly average", "value": "179.36", "unit": " €/MWh", "change": "+21.5%", "dir": "up", "color": "#4fd1c5", "spark": [79.08, 113.02, 163.24, 149.69, 149.47, 172.76, 176.71, 130.85, 129.94, 216.33, 170.63, 178.28, 127.12, 119.74, 50.96, 59.17, 142.3, 159.12, 148.95, 158.11, 161.52, 148.2, 115.41, 203.94, 166.81, 146.81, 202.33, 195.57, 172.52, 167.52]}, {"key": "gas", "label": "French gas (PEG)", "sub": "spot, weekly average", "value": "72.21", "unit": " €/MWh", "change": "−1.7%", "dir": "down", "color": "#e8b33a", "spark": [77.3, 74.95, 73.75, 75.41, 78.6, 80.18, 80.29, 82.01, 82.13, 84.47, 84.43, 80.21, 78.44, 78.47, 79.21, 80.95, 75.69, 72.86, 73.55, 74.67, 71.99, 72.95, 72.35, 72.92, 69.42, 70.07, 72.26, 72.71, 74.18, 73.92]}, {"key": "storage", "label": "EU gas storage", "sub": "week on week", "value": "72.7", "unit": " %", "change": "+1.5 pt", "dir": "up", "color": "#94a3b8", "spark": [58.3, 58.53, 58.82, 59.1, 59.37, 59.63, 59.9, 60.16, 60.44, 60.79, 61.13, 61.37, 61.6, 61.81, 62.04, 62.32, 62.64, 62.99, 63.28, 63.55, 63.81, 64.09, 64.38, 64.74, 65.1, 65.4, 65.62, 65.83, 66.07, 66.35, 66.59, 66.91, 67.14, 67.35, 67.52, 67.66, 67.78, 68.04, 68.3, 68.49, 68.66, 68.84, 69.06, 69.31, 69.62, 69.94, 70.14, 70.25, 70.35, 70.45, 70.62, 70.88, 71.17, 71.33, 71.55, 71.64, 71.98, 72.15, 72.4, 72.67]}, {"key": "oil", "label": "Brent", "sub": "M+1, weekly close", "value": "102.38", "unit": " $/bbl", "change": "−3.4%", "dir": "down", "color": "#e8703a", "spark": [105.99, 105.92, 102.94, 97.57, 102.44, 102.38]}]
+sections: [{"key": "power", "title": "Electricity", "icon": "fa-bolt", "emoji": "⚡", "bullets": ["French power (day-ahead spot): between €146.81 and €203.94/MWh depending on the day, €179.36/MWh on average (+21.5% week on week).", "Most expensive day: Monday 28; cheapest: Wednesday 30.", "Generation: nuclear 68%, renewables 24%, gas 8%."], "chart": {"type": "detail", "title": "French power", "sub": "Day-ahead spot, daily average", "unit": "€/MWh", "labels": ["2026-08-07", "2026-08-08", "2026-08-09", "2026-08-10", "2026-08-11", "2026-08-12", "2026-08-13", "2026-08-14", "2026-08-15", "2026-08-16", "2026-08-17", "2026-08-18", "2026-08-19", "2026-08-20", "2026-08-21", "2026-08-22", "2026-08-23", "2026-08-24", "2026-08-25", "2026-08-26", "2026-08-27", "2026-08-28", "2026-08-29", "2026-08-30", "2026-08-31", "2026-09-01", "2026-09-02", "2026-09-03", "2026-09-04", "2026-09-05", "2026-09-06", "2026-09-07", "2026-09-08", "2026-09-09", "2026-09-10", "2026-09-11", "2026-09-12", "2026-09-13", "2026-09-14", "2026-09-15", "2026-09-16", "2026-09-17", "2026-09-18", "2026-09-19", "2026-09-20", "2026-09-21", "2026-09-22", "2026-09-23", "2026-09-24", "2026-09-25", "2026-09-26", "2026-09-27", "2026-09-28", "2026-09-29", "2026-09-30", "2026-10-01", "2026-10-02", "2026-10-03", "2026-10-04"], "series": [{"name": "French power", "color": "#00817d", "data": [106.26, 93.84, 90.93, 125.99, 115.13, 141.2, 154.68, 145.74, 122.27, 138.15, 177.35, 162.21, 165.78, 143.12, 152.8, 100.62, 76.47, 105.45, 153.92, 159.84, 156.6, 134.28, 65.33, 72.61, 81.84, 148.72, 163.6, 138.34, 110.12, 79.08, 113.02, 163.24, 149.69, 149.47, 172.76, 176.71, 130.85, 129.94, 216.33, 170.63, 178.28, 127.12, 119.74, 50.96, 59.17, 142.3, 159.12, 148.95, 158.11, 161.52, 148.2, 115.41, 203.94, 166.81, 146.81, 202.33, 195.57, 172.52, 167.52]}], "band": ["2026-09-28", "2026-10-04"], "band_label": "Week 40", "stats": [{"label": "Latest", "value": "167.52", "unit": "€/MWh", "sub": "Sunday 4"}, {"label": "Average vs prev. week", "value": "+21.5%", "unit": "", "sub": "179.36 vs 147.66 €/MWh", "dir": "up"}, {"label": "Low", "value": "146.81", "unit": "€/MWh", "sub": "Wednesday 30"}, {"label": "High", "value": "203.94", "unit": "€/MWh", "sub": "Monday 28"}, {"label": "Average", "value": "179.36", "unit": "€/MWh", "sub": "week 40"}]}, "source": "RTE, Energy-Charts / SMARD"}, {"key": "gas", "title": "Gas", "icon": "fa-fire-flame-simple", "emoji": "🔥", "bullets": ["French gas (PEG, spot): €72.21/MWh on average, against 73.44 the previous week (−1.7%), between €69.42 and €74.18/MWh depending on the day.", "European storage: 72.7% full (+1.5 pt in a week), 10.1 pts below last year.", "France: 85.2% full."], "chart": {"type": "detail", "title": "French gas (PEG)", "sub": "Spot, average price of each gas day", "unit": "€/MWh", "labels": ["2026-08-07", "2026-08-08", "2026-08-09", "2026-08-10", "2026-08-11", "2026-08-12", "2026-08-13", "2026-08-14", "2026-08-15", "2026-08-16", "2026-08-17", "2026-08-18", "2026-08-19", "2026-08-20", "2026-08-21", "2026-08-22", "2026-08-23", "2026-08-24", "2026-08-25", "2026-08-26", "2026-08-27", "2026-08-28", "2026-08-29", "2026-08-30", "2026-08-31", "2026-09-01", "2026-09-02", "2026-09-03", "2026-09-04", "2026-09-05", "2026-09-06", "2026-09-07", "2026-09-08", "2026-09-09", "2026-09-10", "2026-09-11", "2026-09-12", "2026-09-13", "2026-09-14", "2026-09-15", "2026-09-16", "2026-09-17", "2026-09-18", "2026-09-19", "2026-09-20", "2026-09-21", "2026-09-22", "2026-09-23", "2026-09-24", "2026-09-25", "2026-09-26", "2026-09-27", "2026-09-28", "2026-09-29", "2026-09-30", "2026-10-01", "2026-10-02", "2026-10-03", "2026-10-04"], "series": [{"name": "French gas (PEG)", "color": "#e8b33a", "data": [55.94, 55.0, 56.01, 59.59, 60.13, 60.59, 60.43, 61.5, 62.94, 64.0, 62.67, 63.56, 63.81, 65.28, 66.25, 66.34, 66.02, 67.8, 66.53, 65.27, 67.43, 67.76, 65.36, 66.32, 69.29, 71.71, 73.61, 71.16, 70.7, 77.3, 74.95, 73.75, 75.41, 78.6, 80.18, 80.29, 82.01, 82.13, 84.47, 84.43, 80.21, 78.44, 78.47, 79.21, 80.95, 75.69, 72.86, 73.55, 74.67, 71.99, 72.95, 72.35, 72.92, 69.42, 70.07, 72.26, 72.71, 74.18, 73.92]}], "band": ["2026-09-28", "2026-10-04"], "band_label": "Week 40", "stats": [{"label": "Latest", "value": "73.92", "unit": "€/MWh", "sub": "Sunday 4"}, {"label": "Average vs prev. week", "value": "−1.7%", "unit": "", "sub": "72.21 vs 73.44 €/MWh", "dir": "down"}, {"label": "Low", "value": "69.42", "unit": "€/MWh", "sub": "Tuesday 29"}, {"label": "High", "value": "74.18", "unit": "€/MWh", "sub": "Saturday 3"}, {"label": "Average", "value": "72.21", "unit": "€/MWh", "sub": "week 40"}]}, "source": "NaTran (Smart), GIE AGSI+"}, {"key": "oil", "title": "Oil and fuels", "icon": "fa-oil-well", "emoji": "🛢", "bullets": ["Brent (ICE futures M+1): $102.38 a barrel at the weekly close (−3.4% on the week), between $97.57 and $105.92.", "US crude inventories +0.9 million barrels, to 427.3 million.", "At the pump: diesel €2.373/L (−0.7 cents on the week), SP95-E10 €2.168/L."], "chart": {"type": "detail", "title": "Brent", "sub": "ICE futures M+1 (front month)", "unit": "$/b", "labels": ["2026-08-06", "2026-08-07", "2026-08-10", "2026-08-11", "2026-08-12", "2026-08-13", "2026-08-14", "2026-08-17", "2026-08-18", "2026-08-19", "2026-08-20", "2026-08-21", "2026-08-24", "2026-08-25", "2026-08-26", "2026-08-27", "2026-08-28", "2026-09-01", "2026-09-02", "2026-09-03", "2026-09-04", "2026-09-07", "2026-09-08", "2026-09-09", "2026-09-10", "2026-09-11", "2026-09-14", "2026-09-15", "2026-09-16", "2026-09-17", "2026-09-18", "2026-09-21", "2026-09-22", "2026-09-23", "2026-09-24", "2026-09-25", "2026-09-28", "2026-09-29", "2026-09-30", "2026-10-01", "2026-10-02"], "series": [{"name": "Brent, ICE futures M+1", "color": "#e8703a", "data": [null, null, null, null, null, null, null, null, null, null, null, null, null, null, null, null, null, null, null, null, null, null, null, null, null, null, null, null, null, null, null, null, null, null, null, 105.99, 105.92, 102.94, 97.57, 102.44, 102.38]}, {"name": "Brent spot (EIA), for context", "color": "#e8703a", "dashed": true, "data": [89.65, 87.62, 92.74, 93.26, 92.52, 92.03, 92.02, 92.43, 95.29, 92.37, 94.0, 96.92, 92.71, 88.24, 87.77, 90.18, 89.75, 96.02, 97.59, 100.52, 102.24, 104.47, 106.12, 109.51, 120.98, 118.06, 121.25, 130.8, 127.84, 121.18, 119.66, 116.15, 114.89, 117.45, 120.92, 116.01, 119.97, 113.96, null, null, null]}], "band": ["2026-09-28", "2026-10-04"], "band_label": "Week 40", "stats": [{"label": "Latest", "value": "102.38", "unit": "$/b", "sub": "Friday 2"}, {"label": "On the week", "value": "−3.4%", "unit": "", "sub": "−3.61 $/b", "dir": "down"}, {"label": "Low", "value": "97.57", "unit": "$/b", "sub": "Wednesday 30"}, {"label": "High", "value": "105.92", "unit": "$/b", "sub": "Monday 28"}, {"label": "Average", "value": "102.25", "unit": "$/b", "sub": "week 40"}]}, "source": "OilPriceAPI (ICE), EIA, French fuel prices (data.economie.gouv.fr)"}]
 reading: "A week marked by a rise in power prices (+21.5%) and a fall in Brent (−3.4%). European gas storage heads into winter well below last year, leaving the market sensitive to cold weather."
 ---
 
